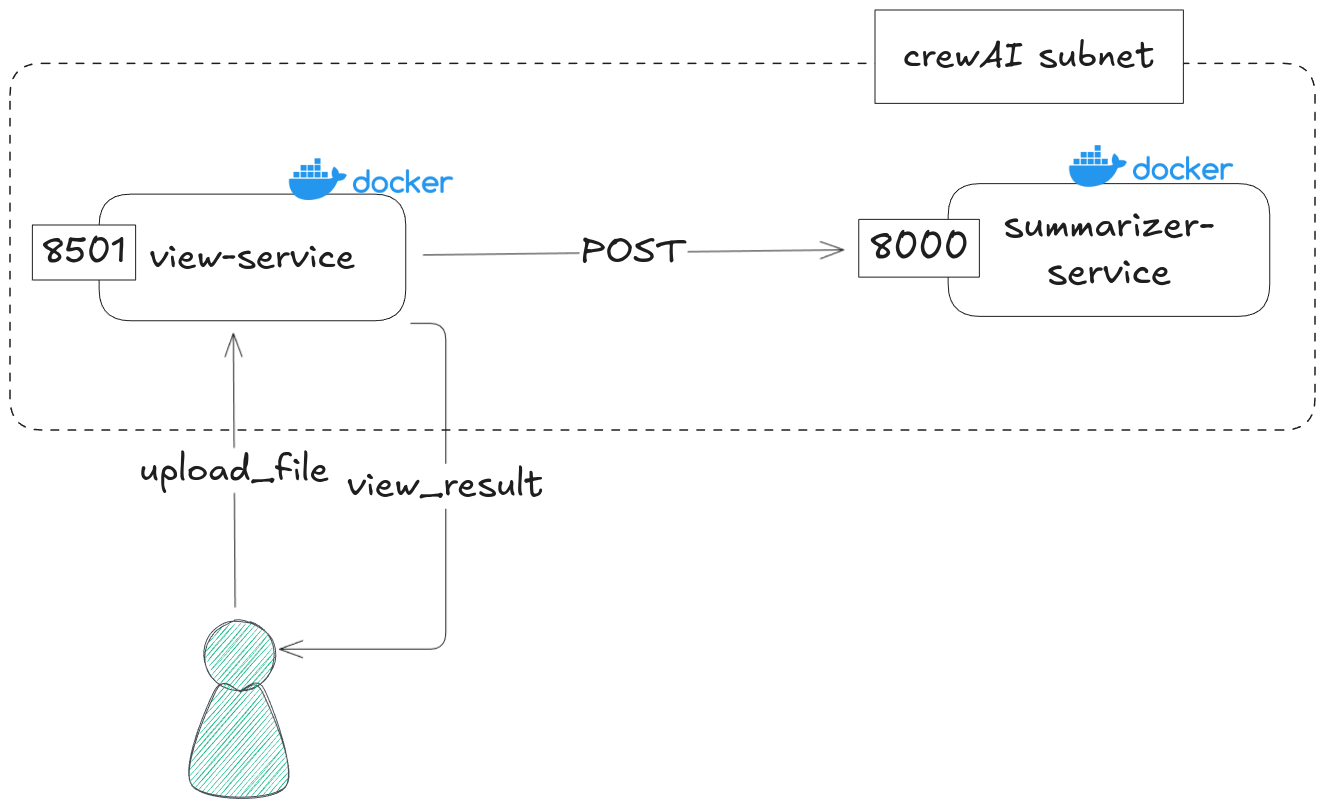
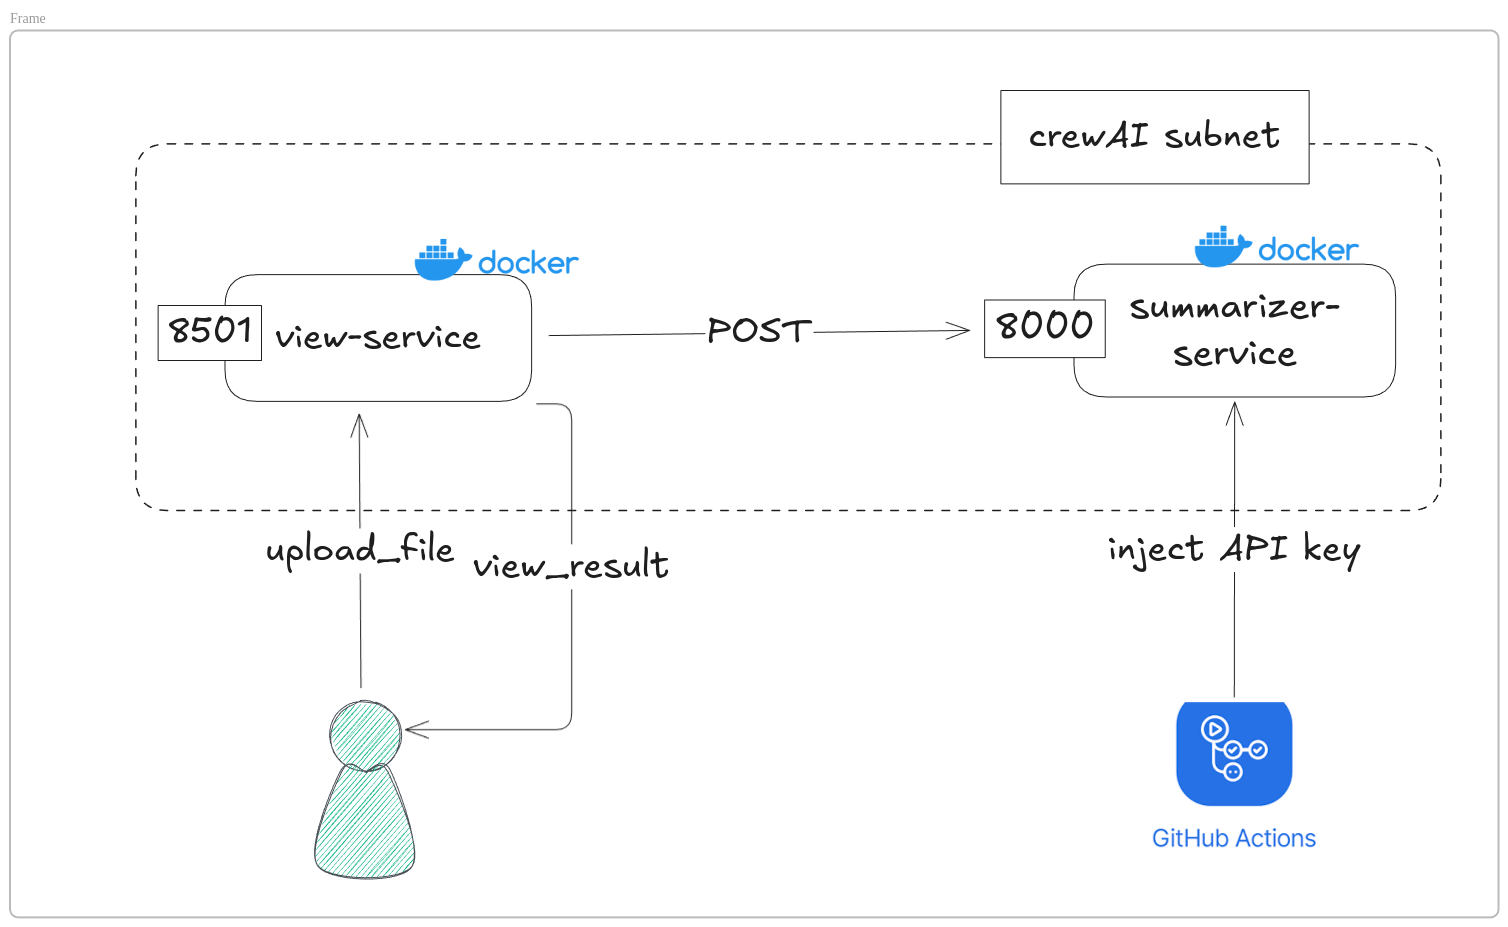
docker-compose.yml : removing version key for avoiding warning README.md : updated

diff --git a/README.md b/README.md
@@ -1,5 +1,22 @@
 # crewAI
-Exemple of migration from agentic towards CrewAI 
+Exemple of migration from agentic towards CrewAI.
+
+The solution has some abilities of a Human Resource assistant.
+A (part of ) CV is uploaded and headline, the original text is displayed on letf side 
+along with: 
+- a headline that provides the global position of the worker
+- the historic of experiences
+- an abstract of the carreer 
+
+![img.png](doc/result.png)
+
+# Components for solution
+
+- **Streamlit** for User Interface : https://docs.streamlit.io/
+- **CrewAI** for agents framework : https://docs.crewai.com/
+- **OpenAI** for LLMs: https://openai.com/
+- **Excalidraw** for schemas and diagrams : https://excalidraw.com/
+- **Linkedin** : https://www.linkedin.com/in/françois-bangui-809367151
 
 # Architecture
 ![img.png](doc/docker.png)
@@ -8,6 +25,10 @@ Exemple of migration from agentic towards CrewAI
 This application run a multi-container application implemented as two microservices:
 - view-service
 - summarizer-service
+
+For the need of the Continuous Integration workflow, The OpenAPI API key for querying LLM 
+is stored in the Github vault connected to th repository and injected in `resume-service`.
+
 ## The View service
 User interface implemented with `streamlit`. It allows a user to 
 upload a file and view the result.
@@ -99,7 +120,14 @@ Once containers are launched and executed with Docker then file into `data/input
 be used.
 
 # The continuous integration workflow
+The workflow for continuous integration is defined in file `crewai/.github/workflows/build.yml`
 
+All the steps for installing building and checking containers are defined in it.
+
+The workflow is triggered each time a push command on master repository branch is made.
+
+On success on Github Actions page, the following section name "`Check running containers`" should display followings:
+![img.png](doc/checkrunningcontainers.png)
 # Result
 The screen below shows the result of interactions between the two services. 
 The left side is the original text.
